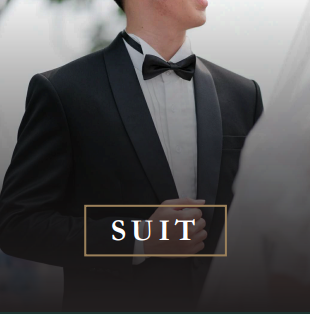
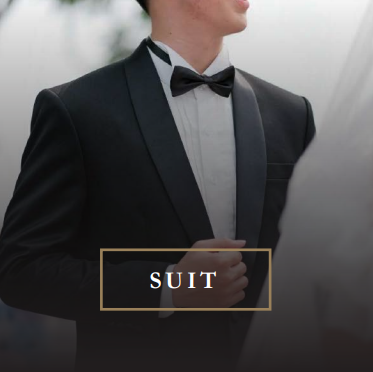
revisi

diff --git a/resources/views/template/template.blade.php b/resources/views/template/template.blade.php
@@ -212,28 +212,37 @@
         <div style="margin-top: 40px">
             <ul class="nav nav-fill">
                 <li class="nav-item">
-                    <a class="nav-link active" href="#aboutussection">ABOUT US</a>
+                    <a class="nav-link active"
+                        href="{{ isset($isIndex) ? '#aboutussection' : '/#aboutussection' }}">ABOUT
+                        US</a>
                 </li>
                 <li class="nav-item">
-                    <a class="nav-link" href="#coresection">CORE VALUE</a>
+                    <a class="nav-link" href="{{ isset($isIndex) ? '#coresection' : '/#coresection' }}">CORE
+                        VALUE</a>
                 </li>
                 <li class="nav-item">
-                    <a class="nav-link" href="#servicesection">SERVICES</a>
+                    <a class="nav-link"
+                        href="{{ isset($isIndex) ? '#servicesection' : '/#servicesection' }}">SERVICES</a>
                 </li>
                 <li class="nav-item">
-                    <a class="nav-link" href="#processsection">PROCESS</a>
+                    <a class="nav-link"
+                        href="{{ isset($isIndex) ? '#processsection' : '/#processsection' }}">PROCESS</a>
                 </li>
                 <li class="nav-item">
-                    <a class="nav-link" href="#fabricsection">FABRIC CATALOGUE</a>
+                    <a class="nav-link"
+                        href="{{ isset($isIndex) ? '#fabricsection' : '/#fabricsection' }}">FABRIC CATALOGUE</a>
                 </li>
                 <li class="nav-item">
-                    <a class="nav-link" href="#lookbooksection">LOOK BOOK</a>
+                    <a class="nav-link"
+                        href="{{ isset($isIndex) ? '#lookbooksection' : '/#lookbooksection' }}">LOOK BOOK</a>
                 </li>
                 <li class="nav-item">
-                    <a class="nav-link" href="#contactsection">CONTACT US</a>
+                    <a class="nav-link"
+                        href="{{ isset($isIndex) ? '#contactsection' : '/#contactsection' }}">CONTACT US</a>
                 </li>
                 <li class="nav-item">
-                    <a class="nav-link" href="#blogsection">BLOGS</a>
+                    <a class="nav-link"
+                        href="{{ isset($isIndex) ? '#blogsection' : '/#blogsection' }}">BLOGS</a>
                 </li>
             </ul>
         </div>

diff --git a/resources/views/fabric_catalogue/semiwool.blade.php b/resources/views/fabric_catalogue/semiwool.blade.php
@@ -43,7 +43,7 @@
 @section('content')
     <div id="desktopviewz">
         <div class="bannertopz">
-            <img src="{{ asset('images/fabric_catalogue/semiwool2.PNG') }}" alt="" width="100%">
+            <img src="{{ asset('images/fabric_catalogue/semiwool2.PNG') }}" alt="" width="100%" style="height: 650px;">
             <div class="centered">
                 <h3 style="color: #ac956d !important; font-size: 40px !important;" class="titlecus">FABRIC CATALOGUE
                 </h3>

diff --git a/resources/views/fabric_catalogue/linen.blade.php b/resources/views/fabric_catalogue/linen.blade.php
@@ -43,7 +43,7 @@
 @section('content')
     <div id="desktopviewz">
         <div class="bannertopz">
-            <img src="{{ asset('images/fabric_catalogue/linen2.PNG') }}" alt="" width="100%">
+            <img src="{{ asset('images/fabric_catalogue/linen2.PNG') }}" alt="" width="100%" style="height: 650px;">
             <div class="centered">
                 <h3 style="color: #ac956d !important; font-size: 40px !important;" class="titlecus">FABRIC CATALOGUE
                 </h3>

diff --git a/resources/views/fabric_catalogue/wool.blade.php b/resources/views/fabric_catalogue/wool.blade.php
@@ -119,7 +119,7 @@
 @section('content')
     <div id="desktopviewz">
         <div class="bannertopz">
-            <img src="{{ asset('images/fabric_catalogue/wool2.PNG') }}" alt="" width="100%">
+            <img src="{{ asset('images/fabric_catalogue/wool2.PNG') }}" alt="" width="100%" style="height: 650px;">
             <div class="centered">
                 <h3 style="color: #ac956d !important; font-size: 40px !important;" class="titlecus">FABRIC CATALOGUE
                 </h3>

diff --git a/resources/views/look_book/ceremony.blade.php b/resources/views/look_book/ceremony.blade.php
@@ -43,7 +43,7 @@
 @section('content')
     <div id="desktopviewz">
         <div class="bannertopz">
-            <img src="{{ asset('images/look_book/ceremony2.PNG') }}" alt="" width="100%">
+            <img src="{{ asset('images/look_book/ceremony2.PNG') }}" alt="" width="100%" style="height: 650px;">
             <div class="centered">
                 <h3 style="color: #ac956d !important; font-size: 40px !important;" class="titlecus">LOOKBOOK</h3>
             </div>

diff --git a/resources/views/services/alteration.blade.php b/resources/views/services/alteration.blade.php
@@ -43,7 +43,7 @@
 @section('content')
     <div id="desktopviewz">
         <div class="bannertopz">
-            <img src="{{ asset('images/services/alteration.png') }}" alt="" width="100%">
+            <img src="{{ asset('images/services/alteration.png') }}" alt="" width="100%" style="height: 650px;">
             <div class="centered">
                 <h3 style="color: #ac956d !important; font-size: 40px !important;" class="titlecus">SERVICES</h3>
             </div>

diff --git a/resources/views/look_book/wedding.blade.php b/resources/views/look_book/wedding.blade.php
@@ -43,7 +43,7 @@
 @section('content')
     <div id="desktopviewz">
         <div class="bannertopz">
-            <img src="{{ asset('images/look_book/wedding2.PNG') }}" alt="" width="100%">
+            <img src="{{ asset('images/look_book/wedding2.PNG') }}" alt="" width="100%" style="height: 650px;">
             <div class="centered">
                 <h3 style="color: #ac956d !important; font-size: 40px !important;" class="titlecus">LOOKBOOK</h3>
             </div>

diff --git a/resources/views/services/cheongsam.blade.php b/resources/views/services/cheongsam.blade.php
@@ -43,7 +43,7 @@
 @section('content')
     <div id="desktopviewz">
         <div class="bannertopz">
-            <img src="{{ asset('images/services/cheongsam.png') }}" alt="" width="100%">
+            <img src="{{ asset('images/services/cheongsam.png') }}" alt="" width="100%" style="height: 650px;">
             <div class="centered">
                 <h3 style="color: #ac956d !important; font-size: 40px !important;" class="titlecus">SERVICES</h3>
             </div>

diff --git a/resources/views/look_book/casual.blade.php b/resources/views/look_book/casual.blade.php
@@ -43,7 +43,7 @@
 @section('content')
     <div id="desktopviewz">
         <div class="bannertopz">
-            <img src="{{ asset('images/look_book/casual2.PNG') }}" alt="" width="100%">
+            <img src="{{ asset('images/look_book/casual2.PNG') }}" alt="" width="100%" style="height: 650px;">
             <div class="centered">
                 <h3 style="color: #ac956d !important; font-size: 40px !important;" class="titlecus">LOOKBOOK</h3>
             </div>

diff --git a/resources/views/look_book/daily.blade.php b/resources/views/look_book/daily.blade.php
@@ -43,7 +43,7 @@
 @section('content')
     <div id="desktopviewz">
         <div class="bannertopz">
-            <img src="{{ asset('images/look_book/daily2.PNG') }}" alt="" width="100%">
+            <img src="{{ asset('images/look_book/daily2.PNG') }}" alt="" width="100%" style="height: 650px;">
             <div class="centered">
                 <h3 style="color: #ac956d !important; font-size: 40px !important;" class="titlecus">LOOKBOOK</h3>
             </div>

diff --git a/resources/views/services/trouser.blade.php b/resources/views/services/trouser.blade.php
@@ -43,7 +43,7 @@
 @section('content')
     <div id="desktopviewz">
         <div class="bannertopz">
-            <img src="{{ asset('images/services/trouser.png') }}" alt="" width="100%">
+            <img src="{{ asset('images/services/trouser.png') }}" alt="" width="100%" style="height: 650px;">
             <div class="centered">
                 <h3 style="color: #ac956d !important; font-size: 40px !important;" class="titlecus">SERVICES</h3>
             </div>

diff --git a/resources/views/services/batik.blade.php b/resources/views/services/batik.blade.php
@@ -43,7 +43,7 @@
 @section('content')
     <div id="desktopviewz">
         <div class="bannertopz">
-            <img src="{{ asset('images/services/batik.png') }}" alt="" width="100%">
+            <img src="{{ asset('images/services/batik.png') }}" alt="" width="100%" style="height: 650px;">
             <div class="centered">
                 <h3 style="color: #ac956d !important; font-size: 40px !important;" class="titlecus">SERVICES</h3>
             </div>
